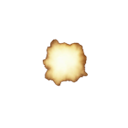
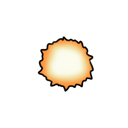
poolwaterfix

Changed region(s): [[0.2812, 0.2812, 0.75, 0.7188]]

diff --git a/src/js/bullet.js b/src/js/bullet.js
@@ -31,6 +31,7 @@ export class bullet extends Actor {
     this.on('collisionstart', (event) => {
       if (event.other instanceof phantom) {
         if (event.other.graphics.opacity == 1) {
+          this.shoot()
           this.kill();
           console.log(event.other.hp);
         }
@@ -41,6 +42,7 @@ export class bullet extends Actor {
           this.vel = direction.scale(-this.speed);
           this.rotation += Math.PI
         }else{
+          this.shoot()
           this.kill();
         }
         console.log(event.other.hp);
@@ -87,7 +89,7 @@ export class bullet extends Actor {
     const timer = new Timer({
       fcn: () => this.shoot(timer),
       repeats: false,
-      interval: 50,
+      interval: 40,
     })  
       this.engine.currentScene.add(timer)
       timer.start()
@@ -96,7 +98,6 @@ export class bullet extends Actor {
 shoot(timer) {
   this.Flash = new flash(this.pos.x, this.pos.y)
   this.engine.currentScene.add(this.Flash)
-  timer.stop()
 
   const timer2 = new Timer({
     fcn: () => this.Flash.kill(),

diff --git a/src/js/rooms/poolRoom.js b/src/js/rooms/poolRoom.js
@@ -36,15 +36,16 @@ export class poolRoom extends room {
         this.add(left)
         const right = new Barrier(1234,510,10,860)
         this.add(right)
-        const water = new Healwater(760,520,400,400)
-        this.add(water)
     }
     onDeactivate() {
         this.Sjaak.kill()
+        this.water.kill()
     }
 
     onActivate() {
         this.Sjaak = new mainCharacter(767, 800,this.game)
         this.add(this.Sjaak)
+        const water = new Healwater(760,520,400,400)
+        this.add(water)
     }
 }

diff --git a/src/js/flash.js b/src/js/flash.js
@@ -6,6 +6,6 @@ export class flash extends Actor {
     super({width:Resources.Flash.width, height:Resources.Flash.height})
     this.pos = new Vector(x, y);
     this.graphics.use(Resources.Flash.toSprite())
-    this.scale = new Vector(1, 1);
+    this.scale = new Vector(0.5, 0.5);
   }
 }

diff --git a/src/js/game.js b/src/js/game.js
@@ -80,7 +80,7 @@ export class Game extends Engine {
         this.addScene('barRoom', this.Barroom)
         this.addScene('dormRoom', this.Dormroom)
 
-        this.goToScene('titleMenu')
+        this.goToScene('playroom')
 
         console.log("Enjoy!")
     }
